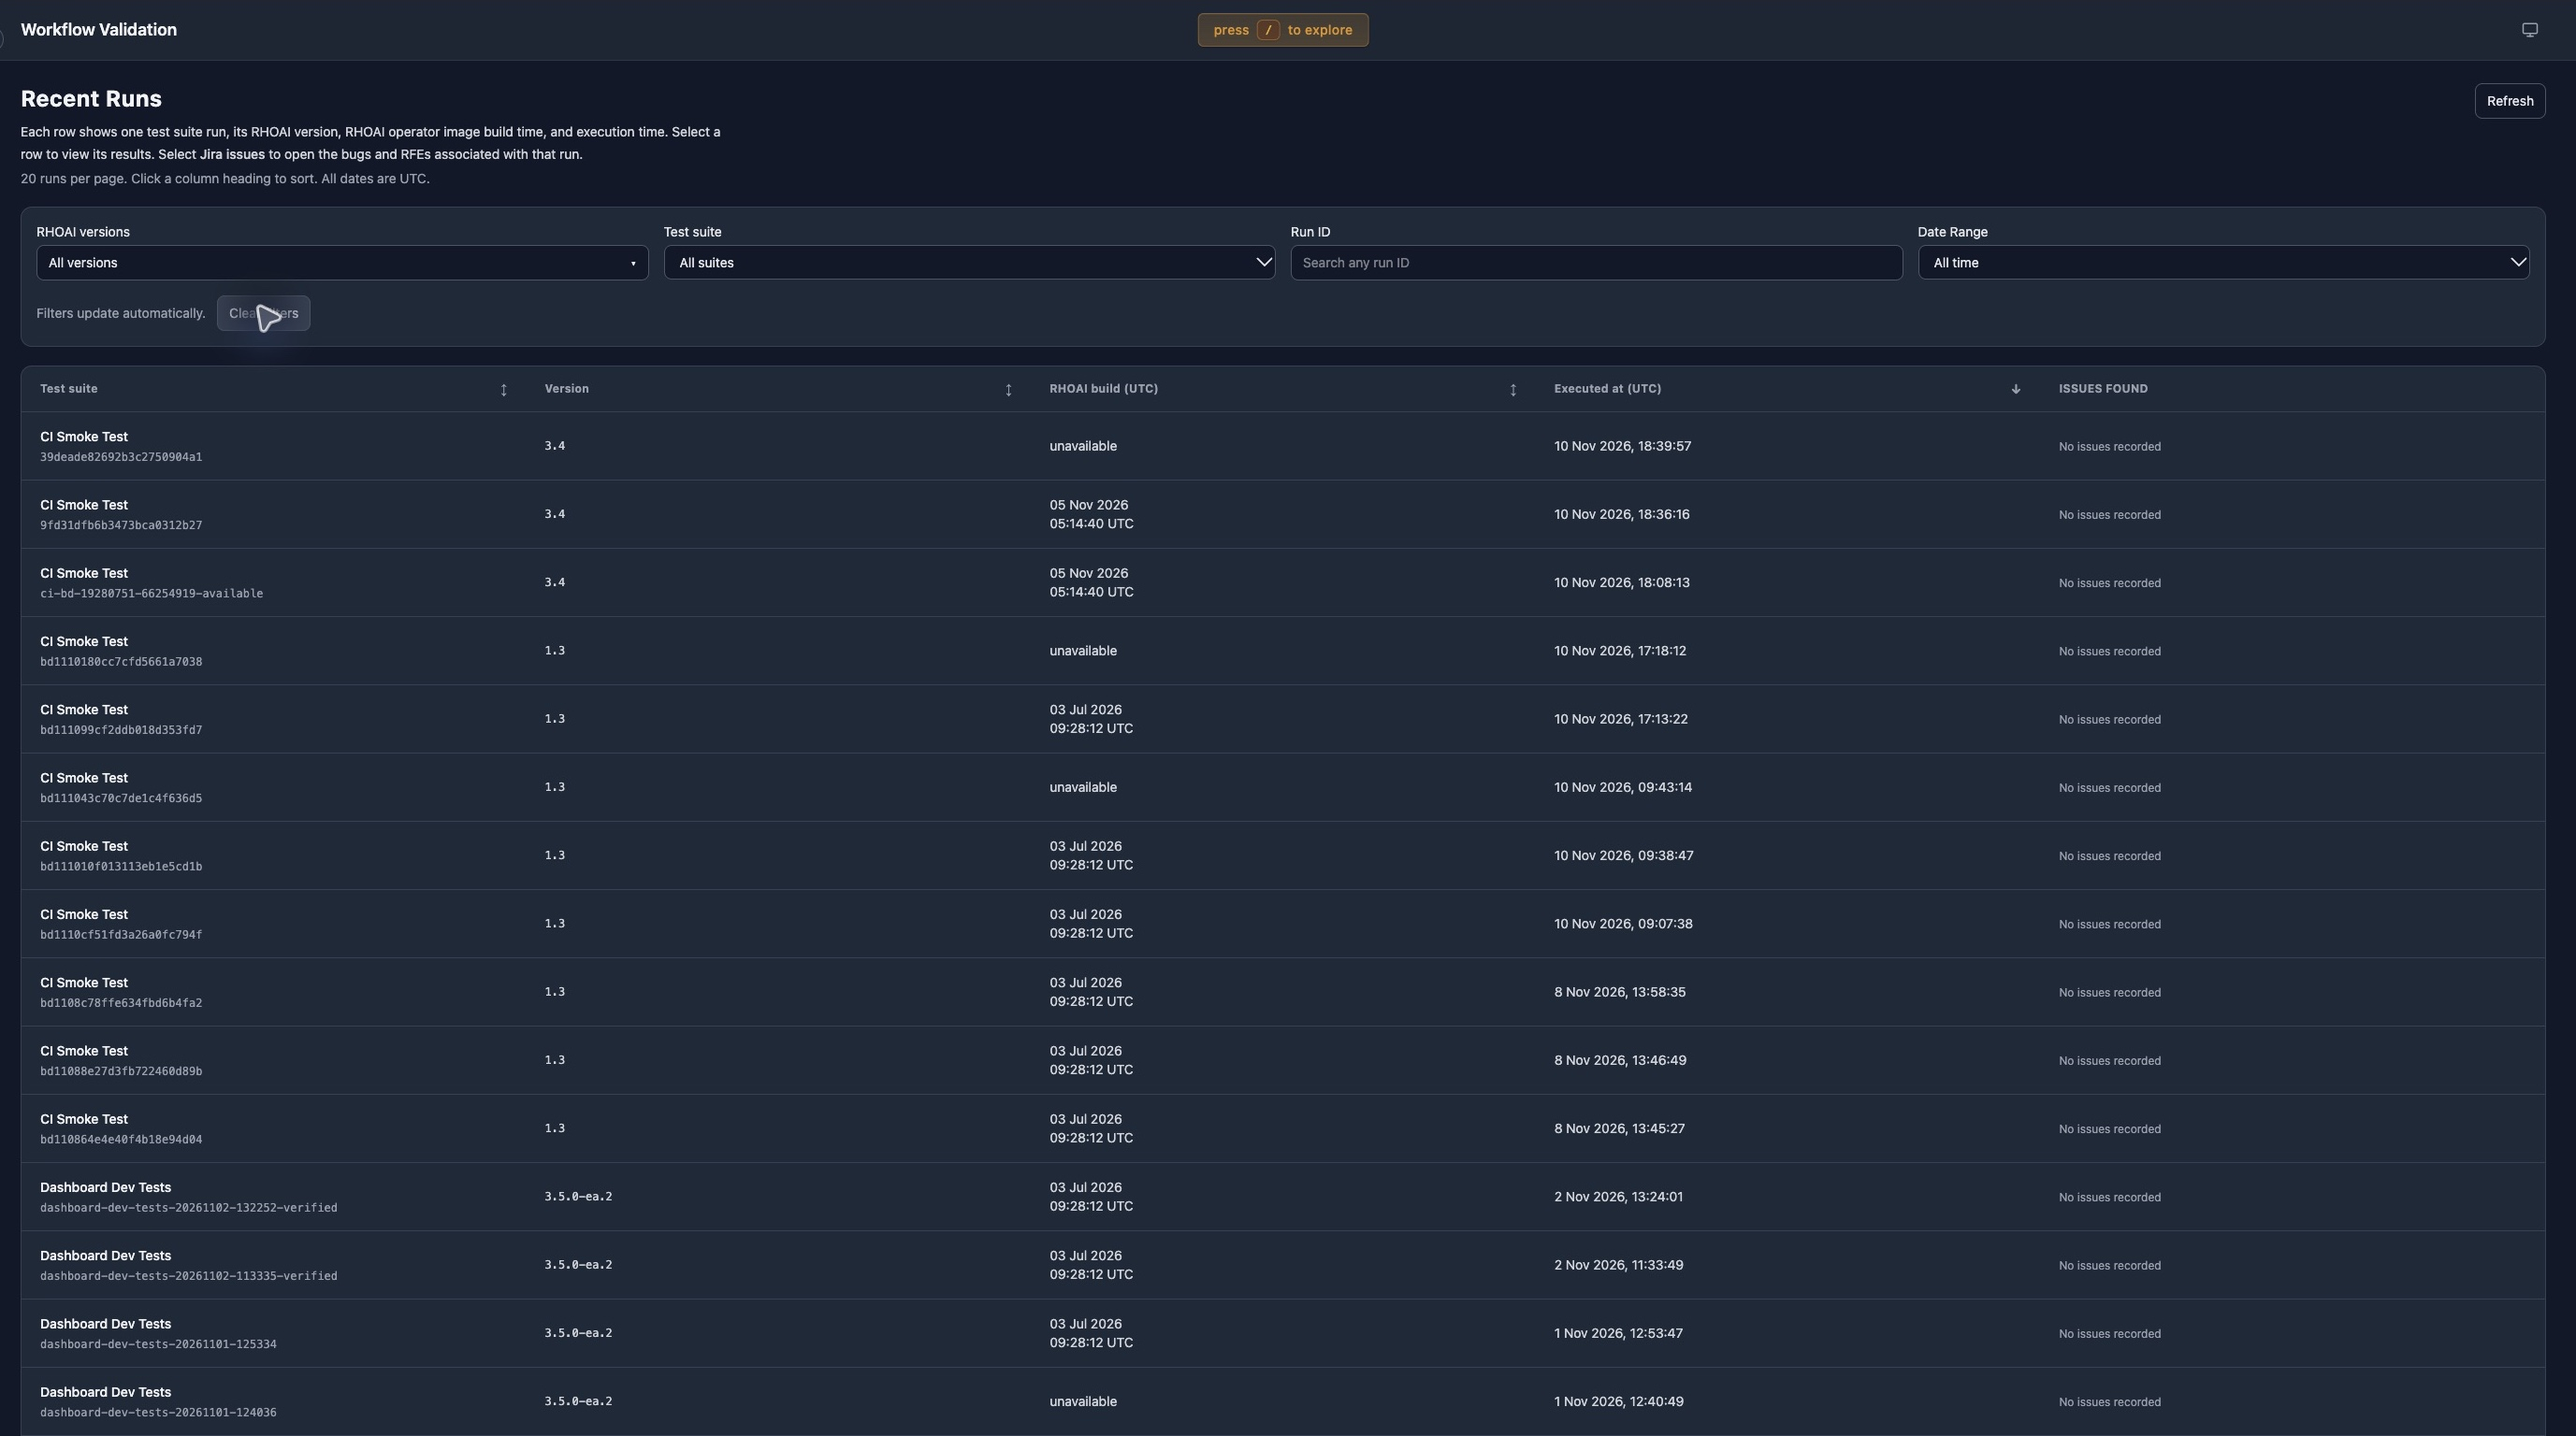
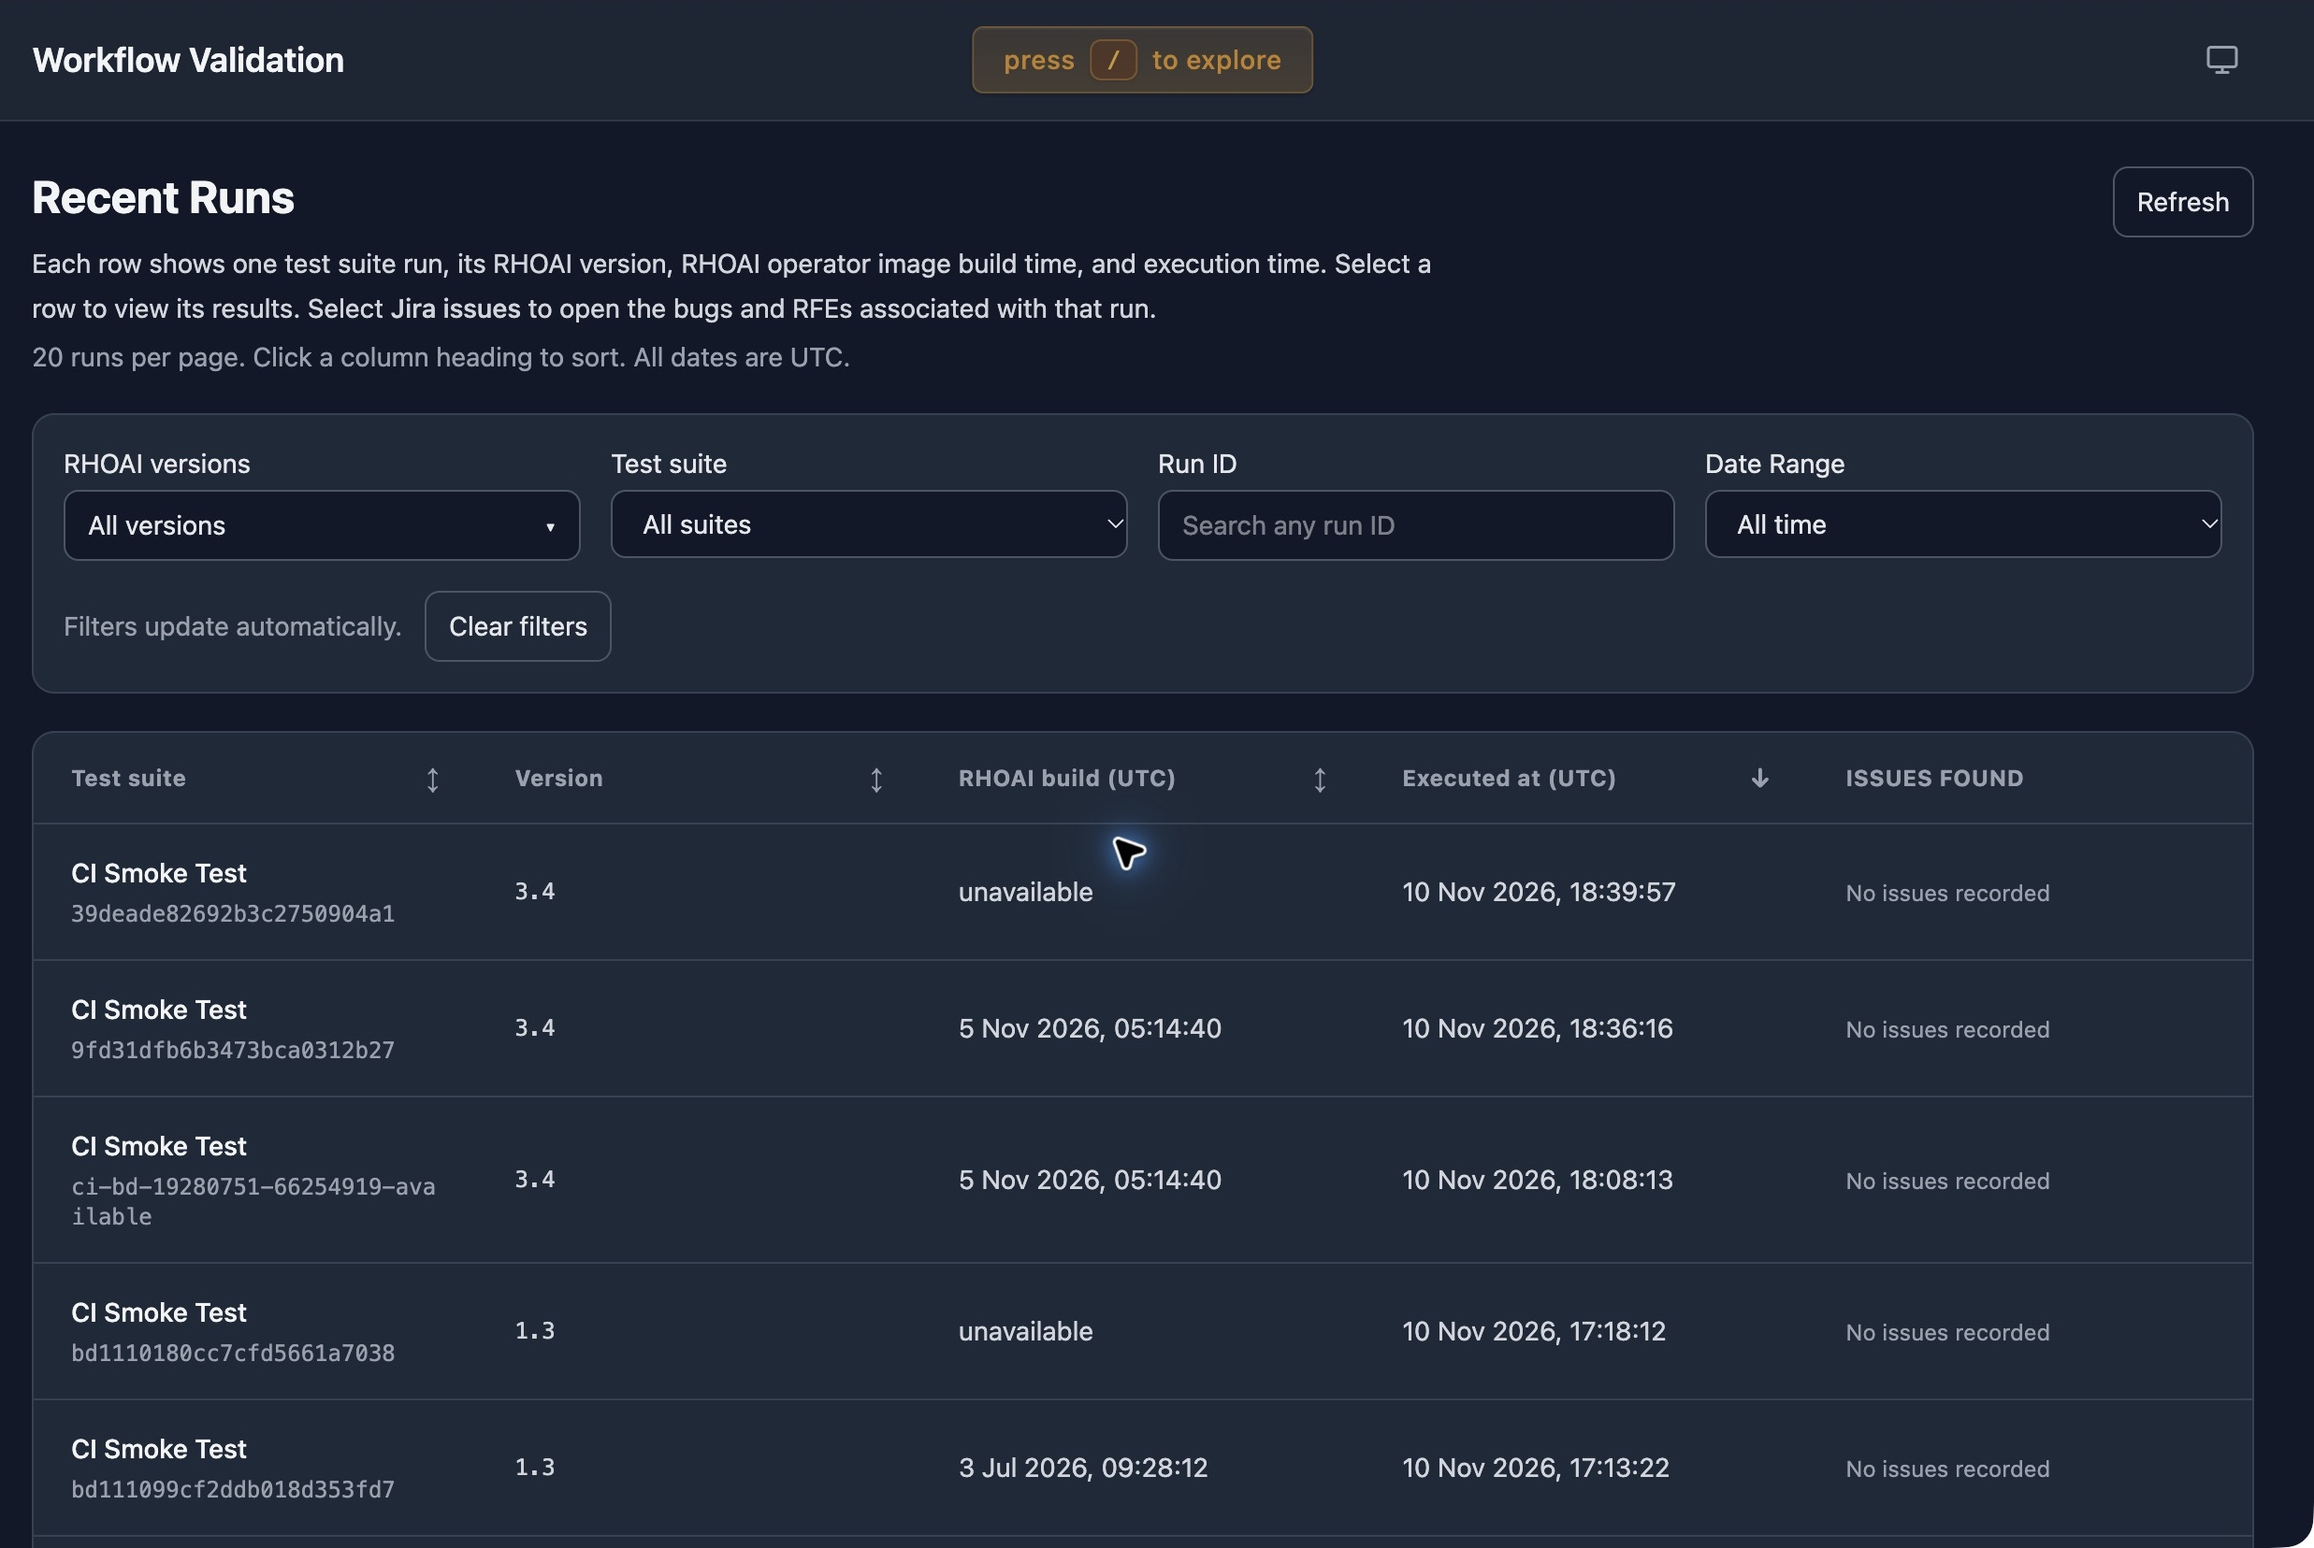
fix(workflow-validation): match build and execution time display

diff --git a/modules/workflow-validation/client/views/RecentRunsView.vue b/modules/workflow-validation/client/views/RecentRunsView.vue
@@ -77,7 +77,7 @@
               </td>
               <td class="break-words px-5 py-4 font-mono text-xs text-gray-600 dark:text-gray-300">{{ run.rhoaiVersion ? versionLabel(run.rhoaiVersion) : 'Version unavailable' }}</td>
               <td class="whitespace-nowrap px-5 py-4 text-gray-600 dark:text-gray-300">
-                <template v-if="run.buildDateStatus === 'verified' && validTime(run.buildDate)"><time :datetime="run.buildDate">{{ buildDate(run.buildDate) }}</time><br><span>{{ buildTime(run.buildDate) }}</span></template>
+                <time v-if="run.buildDateStatus === 'verified' && validTime(run.buildDate)" :datetime="run.buildDate">{{ recordedTime(run.buildDate) }}</time>
                 <span v-else title="No verified RHOAI operator image build time is recorded for this run.">unavailable</span>
               </td>
               <td class="whitespace-nowrap px-5 py-4 text-gray-600 dark:text-gray-300"><time v-if="validTime(run.timestamp)" :datetime="run.timestamp">{{ recordedTime(run.timestamp) }}</time><span v-else>Unavailable</span></td>
@@ -152,11 +152,7 @@ const hasFilters = computed(() => applied.value.versions.length || ['suite', 'ru
 const inputClass = 'mt-1 block w-full rounded-lg border border-gray-300 bg-white px-3 py-2 text-sm dark:border-gray-600 dark:bg-gray-900'
 const buttonClass = 'rounded-lg border border-gray-300 px-3 py-2 text-sm text-gray-700 hover:bg-gray-50 disabled:opacity-50 dark:border-gray-600 dark:text-gray-200 dark:hover:bg-gray-700'
 const formatter = new Intl.DateTimeFormat('en-GB', { dateStyle: 'medium', timeStyle: 'medium', timeZone: 'UTC' })
-const dateFormatter = new Intl.DateTimeFormat('en-GB', { day: '2-digit', month: 'short', year: 'numeric', timeZone: 'UTC' })
-const timeFormatter = new Intl.DateTimeFormat('en-GB', { hour: '2-digit', minute: '2-digit', second: '2-digit', hour12: false, timeZone: 'UTC' })
 const validTime = value => typeof value === 'string' && Number.isFinite(Date.parse(value))
-const buildDate = value => dateFormatter.format(new Date(value))
-const buildTime = value => `${timeFormatter.format(new Date(value))} UTC`
 const recordedTime = value => formatter.format(new Date(value))
 const canOpen = run => Boolean(run.suite && run.invocationId)
 let active = true, sequence = 0, controller, searchTimer

diff --git a/modules/workflow-validation/__tests__/client/RecentRunsView.test.js b/modules/workflow-validation/__tests__/client/RecentRunsView.test.js
@@ -44,14 +44,15 @@ describe('Recent Runs', () => {
     expect(wrapper.text()).not.toMatch(/Build date|Jenkins|Image release/)
   })
 
-  it('renders the verified build date and time on separate lines in UTC', async () => {
-    apiRequest.mockResolvedValueOnce(page([{ ...fixture.rows[0], buildDate: '2026-11-06T01:14:40+02:00' }]))
+  it('matches execution date formatting on one line without repeating UTC in build cells', async () => {
+    apiRequest.mockResolvedValueOnce(page([{ ...fixture.rows[0], buildDate: '2026-11-06T01:14:40+02:00', timestamp: '2026-11-05T23:14:40Z' }]))
     wrapper = mount(RecentRunsView)
     await flushPromises()
     const cell = wrapper.get('tbody tr').findAll('td')[2]
-    expect(cell.get('time').text()).toBe('05 Nov 2026')
-    expect(cell.find('br').exists()).toBe(true)
-    expect(cell.get('span').text()).toBe('23:14:40 UTC')
+    expect(cell.get('time').text()).toBe('5 Nov 2026, 23:14:40')
+    expect(cell.text()).toBe(wrapper.get('tbody tr').findAll('td')[3].text())
+    expect(cell.find('br').exists()).toBe(false)
+    expect(cell.text()).not.toContain('UTC')
     expect(cell.get('time').attributes('datetime')).toBe('2026-11-06T01:14:40+02:00')
   })
 

diff --git a/modules/workflow-validation/tests/integration/workflow-validation.spec.js b/modules/workflow-validation/tests/integration/workflow-validation.spec.js
@@ -568,9 +568,9 @@ test.describe('Workflow Validation module @workflow-validation', () => {
     const table = page.getByRole('table'), pages = page.getByRole('navigation', { name: 'Recent run pages' })
     await expect(table.getByRole('columnheader')).toHaveText(['Test suite↕', 'Version↕', 'RHOAI build (UTC)↕', 'Executed at (UTC)↓', 'Issues found'])
     const cell = table.locator('tbody tr').first().locator('td').nth(2)
-    await expect(cell.locator('time')).toHaveText('02 Nov 2026')
-    await expect(cell.locator('br')).toHaveCount(1)
-    await expect(cell.locator('span')).toHaveText('22:00:00 UTC')
+    await expect(cell.locator('time')).toHaveText('2 Nov 2026, 22:00:00')
+    await expect(cell.locator('br')).toHaveCount(0)
+    await expect(cell).not.toContainText('UTC')
     for (const sortDir of ['desc', 'asc']) {
       await table.getByRole('button', { name: 'Sort RHOAI build time', exact: true }).click()
       await expect(table.getByRole('columnheader', { name: 'RHOAI build (UTC)', exact: true }))

diff --git a/modules/workflow-validation/docs/rhai-10567-dev-deployment.md b/modules/workflow-validation/docs/rhai-10567-dev-deployment.md
@@ -2,7 +2,7 @@
 
 **Status:** Deployed and verified (development)
 **Author:** Codex
-**Date:** 2026-11-11
+**Date:** 2026-11-12
 **Module:** workflow-validation
 **Ticket:** RHAI-10567
 **Branch:** `feat/rhai-10898-rhoai-build-column`
@@ -13,7 +13,8 @@
 
 Add one sortable column, `RHOAI build (UTC)`, to the Recent Runs table.
 Place it directly after the `Version` column.
-Show the build date on line 1 and the build time plus `UTC` on line 2.
+Show the build date and time on one line, matching `Executed at (UTC)`.
+Keep `(UTC)` in the column heading without repeating it in each row.
 Show `unavailable` when the build data is missing or not verified.
 Sort by build date, then by time. Put missing values last.
 Do not change the default order: `Executed at (UTC)` descending.
@@ -64,7 +65,7 @@ Use the existing fields.
 ### Client
 
 - `client/views/RecentRunsView.vue`: add the new column after `Version`.
-  Use two lines: en-GB date, then time and `UTC`.
+  Use the same single-line UTC formatter as `Executed at (UTC)`.
   Show lowercase `unavailable` when data is missing.
   Add a sort button after `version`. First direction is `desc`.
   Change the empty-row colspan from 4 to 5.
@@ -105,9 +106,9 @@ Use the existing fields.
 ### Frontend
 
 - BuildConfig: `org-pulse-frontend-builddate-20261111`
-- Build: `org-pulse-frontend-builddate-20261111-4`
-- Image digest: `org-pulse-frontend@sha256:0d691019128e1321efd3af42b7e396909ed6389f51cd2dc4027d59ffb32150eb`
-- Rollback digest: `org-pulse-frontend@sha256:9d240fdb6113f7a237c30d07409131e2d55bdc8717344c6f16d6ee2f5ecb2665`
+- Build: `org-pulse-frontend-builddate-20261111-5`
+- Image digest: `org-pulse-frontend@sha256:38b8ee4901e88ed46278431b19e270b2add7c3ec496dbcd4c988512d447d4501`
+- Rollback digest: `org-pulse-frontend@sha256:0d691019128e1321efd3af42b7e396909ed6389f51cd2dc4027d59ffb32150eb`
 
 ### Routes
 
@@ -133,6 +134,8 @@ The previous join returned only eight verified rows; grouping restores three dat
   and 142 rows have no eligible tickets.
 - Browser checks pass for both build directions, Next, Previous, reload retaining
   the sorted page, and Clear filters restoring the default order.
+- Verified builds use the same single-line UTC format as execution times,
+  for example `5 Nov 2026, 05:14:40`. UTC appears in the column headings only.
 - Document counts stay unchanged: 726 executions, 4,171 tasks, and 184 root causes.
 
 [Machine-readable evidence](rhai-10567-build-validation.json).
@@ -174,8 +177,20 @@ Concurrent requests retain the existing scan-order and connection guards.
 Regression tests cover 10,001 and 65,537 invocations, duplicate image groups,
 document ID collisions, invalid dates, timezone offsets, cache expiry and Refresh,
 failed image lookups, disconnected clients, and competing image responses.
-Browser tests verify UTC rendering and both build sort directions across all
+Browser tests verify single-line UTC rendering and both build sort directions across all
 47 synthetic rows, including unavailable values and reload.
 
 The user approved both development deployments. Section 5 records the deployed
 images and their immediate rollback targets. Section 6 records the live checks.
+
+## 10. Build Display Update — 2026-11-12
+
+Frontend build 5 uses the execution-time formatter for verified build values.
+It removes the line break and repeated UTC label. The heading keeps `(UTC)`.
+Missing builds still show lowercase `unavailable`.
+
+All 130 focused unit tests and 39 module browser tests passed again.
+Lint and the production build passed. Fresh GPUaaS API checks passed for all
+157 run groups across eight pages in all three sort orders. Live browser checks
+confirmed the format, both build sort directions, Next, Previous, reload, and
+Clear filters. The three screenshots and validation JSON now show this revision.

diff --git a/modules/workflow-validation/docs/rhai-10567-recent-runs-contract.md b/modules/workflow-validation/docs/rhai-10567-recent-runs-contract.md
@@ -19,8 +19,9 @@ build date shows an unavailable label. The time is the latest existing execution
 `timestamp` in the group. It is not a RHOAI build date.
 
 RHOAI build (UTC) is the verified operator image build time from the
-`workflow-execution-images` index. The row shows the build date on the first line
-and the time plus `UTC` on the second line. It joins on `invocation_id` equal to
+`workflow-execution-images` index. Build and execution timestamps use the same
+single-line UTC format, for example `5 Nov 2026, 05:14:40`. Keep `(UTC)` in the
+column heading without repeating it in each row. It joins on `invocation_id` equal to
 the run `invocationId`. Show `unavailable` when no document exists, the status is
 not `verified`, or the date is invalid. Missing build values sort last in both
 directions. Build date sorting uses the time as a tie breaker. Dates must be
@@ -264,12 +265,14 @@ are retained in that suite. The Ownership Gate still requires approval. The PR
 is ready for review. This fix changes test discovery and documentation only;
 the deployed application code and GPUaaS evidence remain applicable.
 
-## RHOAI build column verification — 2026-11-11
+## RHOAI build column verification — 2026-11-12
 
-Backend build 10 and frontend build 4 are deployed to GPUaaS. All 157 run groups
+Backend build 10 and frontend build 5 are deployed to GPUaaS. All 157 run groups
 pass live API checks in the default execution order and both build orders.
 All 11 verified dates match the 18 image documents. Missing builds sort last.
 Next, Previous, reload, and Clear filters pass in the dashboard.
+Verified builds match the single-line execution format, for example
+`5 Nov 2026, 05:14:40`. UTC appears in the column headings only.
 
 [Validation evidence](rhai-10567-build-validation.json).
 [Deployment record](rhai-10567-dev-deployment.md).

diff --git a/modules/workflow-validation/README.md b/modules/workflow-validation/README.md
@@ -154,6 +154,8 @@ contract, representative tests, and affected Vue transformations together.
 Dashboard opens Recent Runs with the latest 20 suite/invocation groups and
 pagination across all available runs. Each row shows the suite, version, RHOAI
 build date and time (`RHOAI build (UTC)`), and execution time (`Executed at (UTC)`). Select a row or press Enter to open its exact run.
+Build and execution timestamps use the same single-line date/time format.
+The column headings identify UTC; individual cells do not repeat the label.
 An explanation below the Recent Runs heading and above the filters describes
 each row and the separate Jira issues link for associated bugs and RFEs.
 
